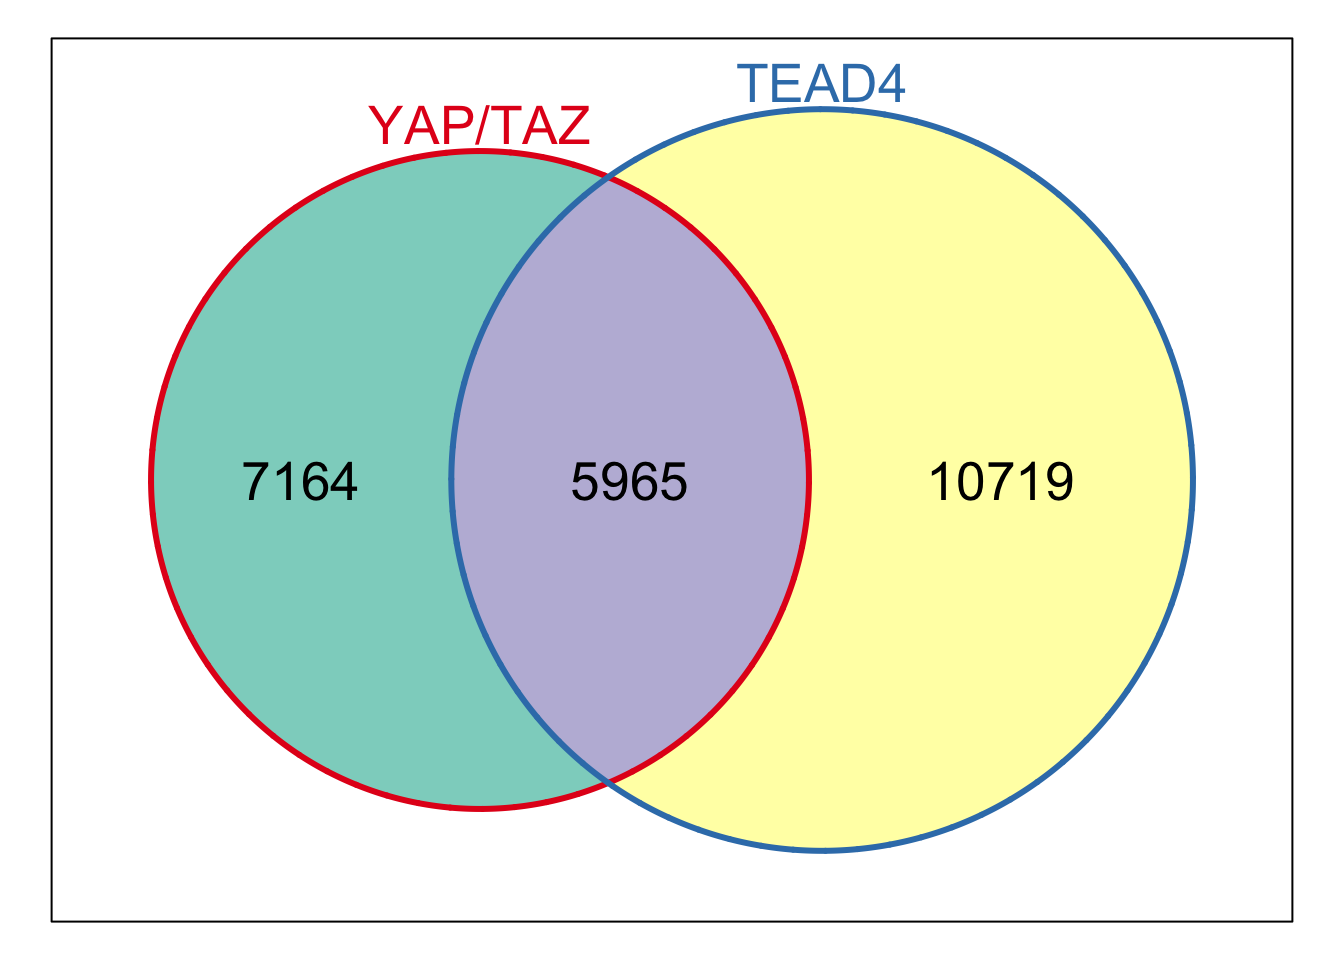
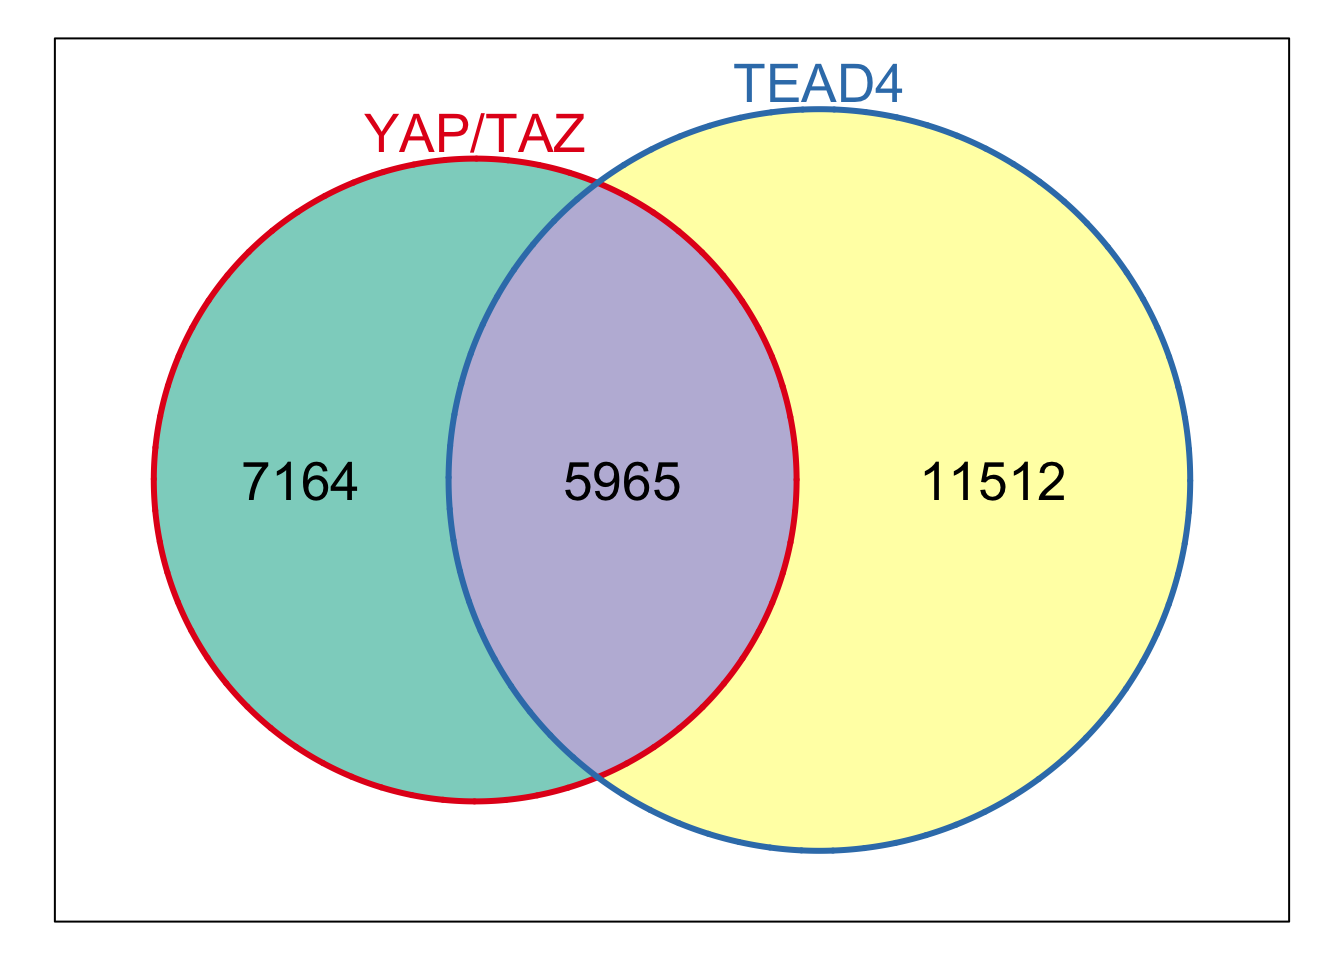
fix typo

diff --git a/docs/04_figure1_a_b_c.html b/docs/04_figure1_a_b_c.html
@@ -388,7 +388,7 @@ aria-hidden="true"></span> </a>
 <div class="tab-content">
 <div id="summary" class="tab-pane fade in active">
 <p>
-<strong>Last updated:</strong> 2025-01-04
+<strong>Last updated:</strong> 2025-01-11
 </p>
 <p>
 <strong>Checks:</strong> <span
@@ -523,15 +523,15 @@ project makes it easier to run your code on other machines.</p>
 <div class="panel panel-default">
 <div class="panel-heading">
 <p class="panel-title">
-<a data-toggle="collapse" data-parent="#workflowr-checks" href="#strongRepositoryversionstrongahrefhttpsgithubcomcrazyhottommyreproducegenomicspaperfigurestree883cb56f69344e885d1adaa6c40f0d551bed1a9etargetblank883cb56a">
+<a data-toggle="collapse" data-parent="#workflowr-checks" href="#strongRepositoryversionstrongahrefhttpsgithubcomcrazyhottommyreproducegenomicspaperfigurestree44ade109d19b18d14b3ce69f08cd0e5c4e6bdd13targetblank44ade10a">
 <span class="glyphicon glyphicon-ok text-success"
 aria-hidden="true"></span> <strong>Repository version:</strong>
-<a href="https://github.com/crazyhottommy/reproduce_genomics_paper_figures/tree/883cb56f69344e885d1adaa6c40f0d551bed1a9e" target="_blank">883cb56</a>
+<a href="https://github.com/crazyhottommy/reproduce_genomics_paper_figures/tree/44ade109d19b18d14b3ce69f08cd0e5c4e6bdd13" target="_blank">44ade10</a>
 </a>
 </p>
 </div>
 <div
[2 lines of base64/hex data omitted]
 class="panel-collapse collapse">
 <div class="panel-body">
 <p>
@@ -541,7 +541,7 @@ reproducibility.
 </p>
 <p>
 The results in this page were generated with repository version
-<a href="https://github.com/crazyhottommy/reproduce_genomics_paper_figures/tree/883cb56f69344e885d1adaa6c40f0d551bed1a9e" target="_blank">883cb56</a>.
+<a href="https://github.com/crazyhottommy/reproduce_genomics_paper_figures/tree/44ade109d19b18d14b3ce69f08cd0e5c4e6bdd13" target="_blank">44ade10</a>.
 See the <em>Past versions</em> tab to see a history of the changes made
 to the R Markdown and HTML files.
 </p>
@@ -559,19 +559,14 @@ Ignored files:
     Ignored:    .DS_Store
     Ignored:    .Rproj.user/
     Ignored:    analysis/.DS_Store
+    Ignored:    analysis/figure/
     Ignored:    data/fastq/
     Ignored:    data/public_data/
     Ignored:    data/reference/
 
 Unstaged changes:
     Modified:   .gitignore
-    Modified:   analysis/01_download_fastq_from_GEO.Rmd
-    Modified:   analysis/02_align_to_hg38.Rmd
-    Modified:   analysis/03_generate_bigwig.Rmd
     Modified:   analysis/04_figure1_a_b_c.Rmd
-    Modified:   analysis/08_homework.Rmd
-    Modified:   analysis/_site.yml
-    Modified:   analysis/about.Rmd
 
 </code></pre>
 <p>
@@ -616,6 +611,40 @@ Message
 </tr>
 </thead>
 <tbody>
+<tr>
+<td>
+Rmd
+</td>
+<td>
+<a href="https://github.com/crazyhottommy/reproduce_genomics_paper_figures/blob/a1bdd913fb482f7417b3ebbc22bd0669712a6b4c/analysis/04_figure1_a_b_c.Rmd" target="_blank">a1bdd91</a>
+</td>
+<td>
+crazyhottommy
+</td>
+<td>
+2025-01-04
+</td>
+<td>
+update
+</td>
+</tr>
+<tr>
+<td>
+html
+</td>
+<td>
+<a href="https://rawcdn.githack.com/crazyhottommy/reproduce_genomics_paper_figures/a1bdd913fb482f7417b3ebbc22bd0669712a6b4c/docs/04_figure1_a_b_c.html" target="_blank">a1bdd91</a>
+</td>
+<td>
+crazyhottommy
+</td>
+<td>
+2025-01-04
+</td>
+<td>
+update
+</td>
+</tr>
 <tr>
 <td>
 Rmd
@@ -854,7 +883,7 @@ too</p>
 YAP_overlap_TAZ_peaks_overlap_TEAD4&lt;- subsetByOverlaps(YAP_overlap_TAZ_peaks, TEAD4_peak)
 
 n_YAP_TAZ &lt;- length(YAP_overlap_TAZ_peaks)  # Total peaks 
-n_TEAD4 &lt;- length(TAZ_peaks)  # Total peaks 
+n_TEAD4 &lt;- length(TEAD4_peak)  # Total peaks 
 n_overlap2&lt;- length(YAP_overlap_TAZ_peaks_overlap_TEAD4)
 
 venn_data2 &lt;- Venn(SetNames = c(&quot;YAP/TAZ&quot;, &quot;TEAD4&quot;),
